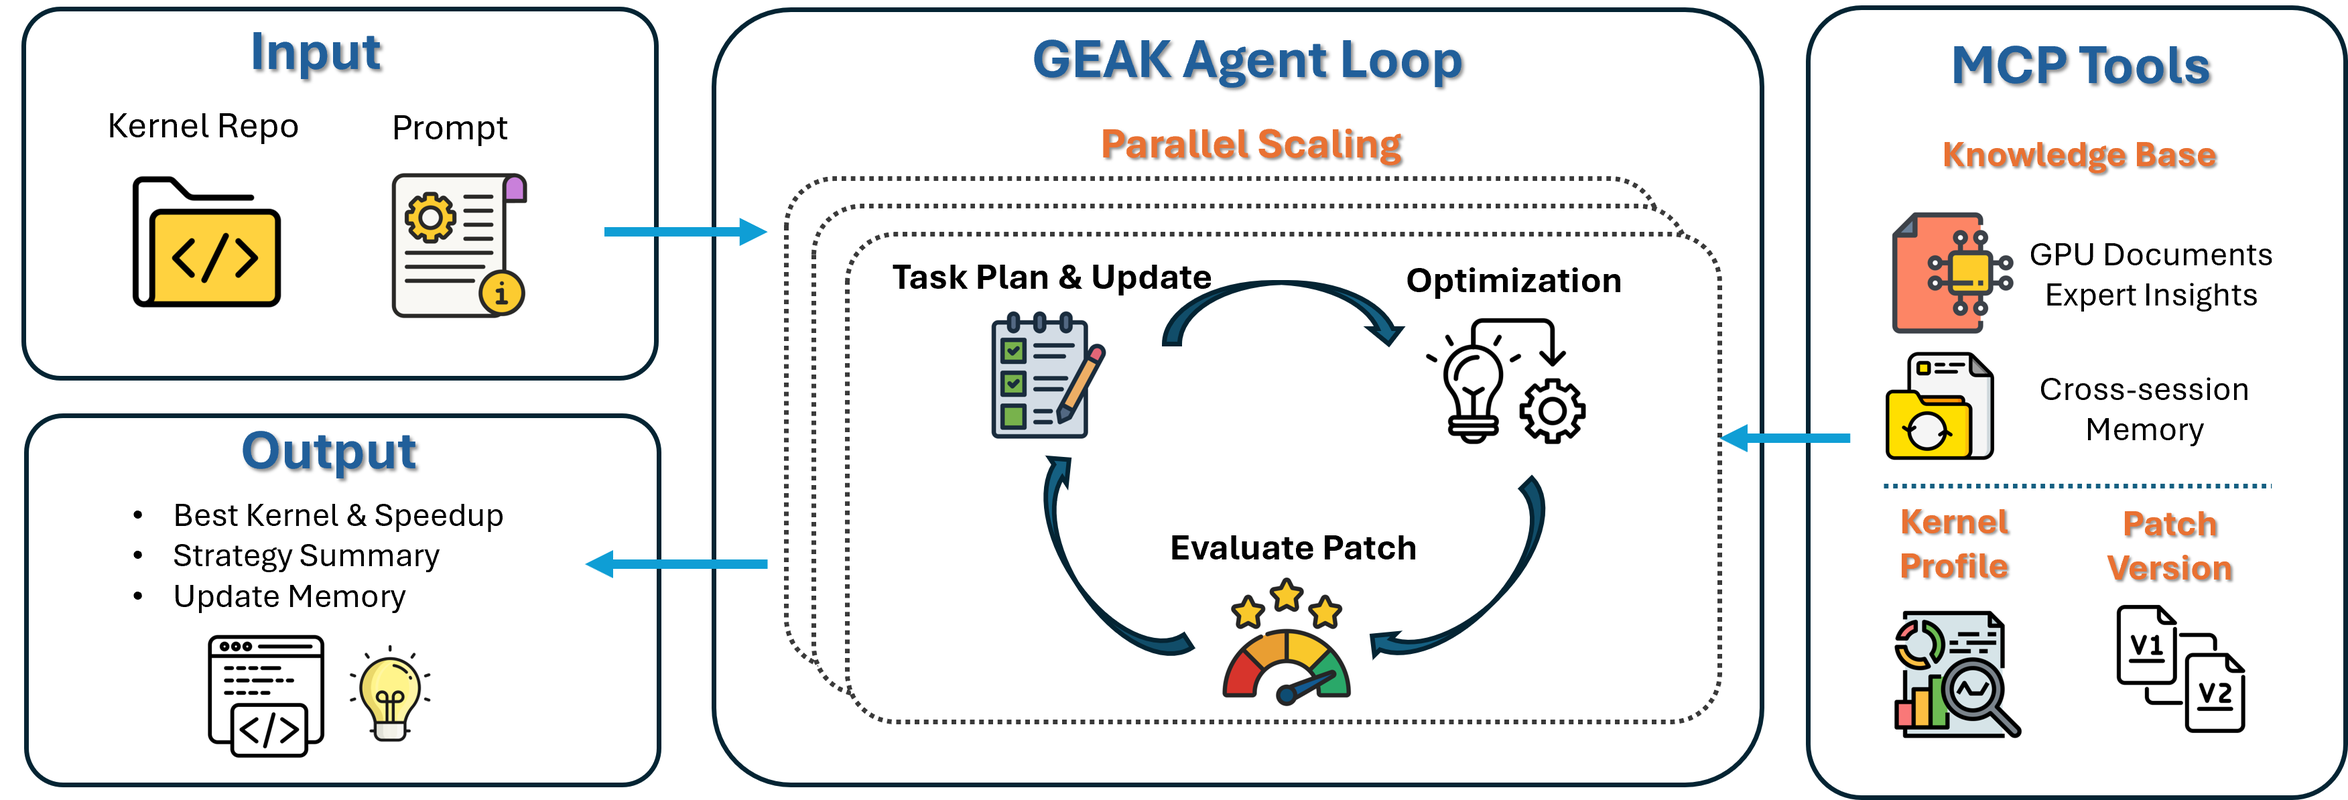
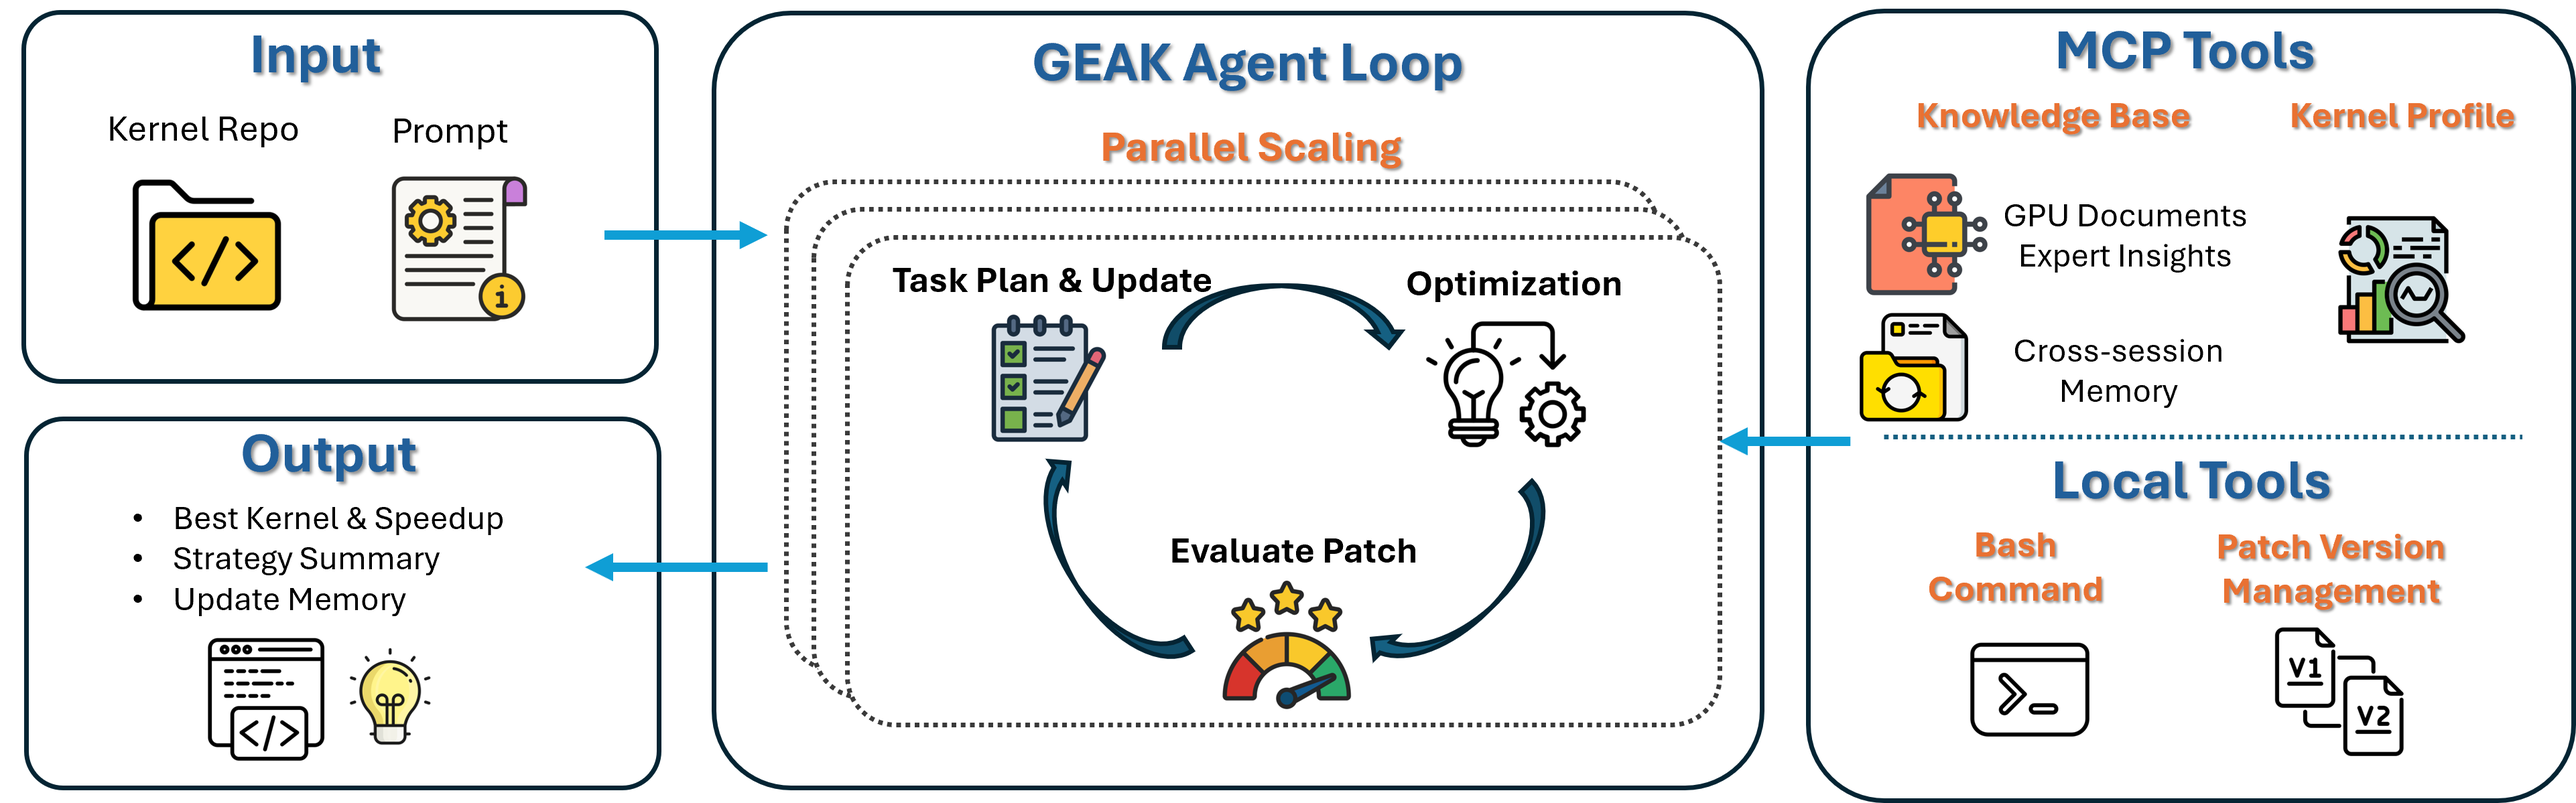
update readme

diff --git a/README.md b/README.md
@@ -58,17 +58,6 @@ export ANTHROPIC_API_KEY="YOUR_KEY"
 export AMD_LLM_API_KEY="YOUR_KEY"
 ```
 
-### RAG Knowledge Base (Optional)
-
-GPU/ROCm/HIP optimization knowledge base, powered by hybrid retrieval (FAISS + BM25 + reranker).
-
-```bash
-# rag-mcp is included in `make install` — just build the index:
-python scripts/build_index.py --force
-```
-
-See **[RAG MCP Server](mcp_tools/rag-mcp/README.md)** for configuration and usage details.
-
 ### Usage
 
 #### Basic (single-agent) GPU kernel optimization
@@ -222,21 +211,18 @@ Automatically selects the best result across runs:
 
 - Kernel Profile — bottleneck analysis (bandwidth, occupancy, etc.)
 - RAG — GPU knowledge retrieval (AMD / NVIDIA)
+  - See **[RAG MCP Server](mcp_tools/rag-mcp/README.md)** for configuration and usage details.
 - In-session strategy tracking — full history, reproducibility, rollback
 - Cross-session memory — reuse past optimization insights
 
----
+  | Flag | Default | What it does |
+  |------|---------|--------------|
+  | `GEAK_MEMORY_DISABLE=1` | off | Turn off all memory (within-session + cross-session) |
+  | `GEAK_USE_KNOWLEDGE_BASE=0` | on | Turn off reading past insights from the knowledge base |
+  | `GEAK_SAVE_TO_KNOWLEDGE_BASE=1` | off | Turn on saving run insights to the knowledge base after each run |
+  | `GEAK_MEMORY_MIN_SPEEDUP=1.10` | 1.10 | Minimum speedup required to save an experience |
 
-## Cross-Session Memory Flags
-
-| Flag | Default | What it does |
-|------|---------|--------------|
-| `GEAK_MEMORY_DISABLE=1` | off | Turn off all memory (within-session + cross-session) |
-| `GEAK_USE_KNOWLEDGE_BASE=0` | on | Turn off reading past insights from the knowledge base |
-| `GEAK_SAVE_TO_KNOWLEDGE_BASE=1` | off | Turn on saving run insights to the knowledge base after each run |
-| `GEAK_MEMORY_MIN_SPEEDUP=1.10` | 1.10 | Minimum speedup required to save an experience |
-
-By default, the knowledge base is **read** (agents see past insights) but **not written** (run results are not saved back). Set `GEAK_SAVE_TO_KNOWLEDGE_BASE=1` to start building the knowledge base from your runs.
+  By default, the knowledge base is **read** (agents see past insights) but **not written** (run results are not saved back). Set `GEAK_SAVE_TO_KNOWLEDGE_BASE=1` to start building the knowledge base from your runs.
 
 ## Contributing
 
